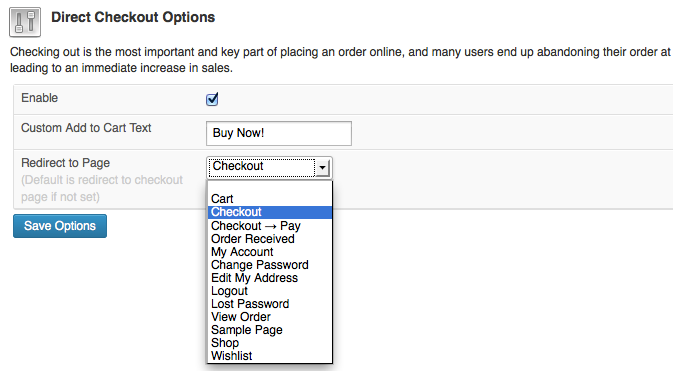
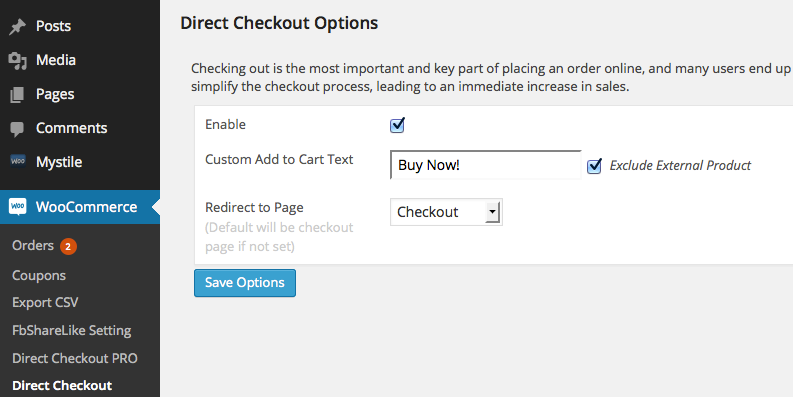
Added "Exclude External Product" checkbox for Custom Add to Cart button text option
git-svn-id: https://plugins.svn.wordpress.org/woocommerce-direct-checkout/trunk@890734 b8457f37-d9ea-0310-8a92-e5e31aec5664

diff --git a/wc-direct-checkout.php b/wc-direct-checkout.php
@@ -3,7 +3,7 @@
 Plugin Name: WooCommerce Direct Checkout
 Plugin URI: http://terrytsang.com/shop/shop/woocommerce-direct-checkout/
 Description: Allow you to implement direct checkout (skip cart page) for WooCommerce
-Version: 1.0.5
+Version: 1.0.6
 Author: Terry Tsang
 Author URI: http://shop.terrytsang.com
 */
@@ -59,6 +59,7 @@ if(in_array('woocommerce/woocommerce.php', apply_filters('active_plugins', get_o
 				$this->options_direct_checkout = array(
 					'direct_checkout_enabled' => '',
 					'direct_checkout_cart_button_text' => '',
+					'direct_checkout_exclude_external' => '',
 					'direct_checkout_cart_redirect_url' => ''
 				);
 	
@@ -106,10 +107,30 @@ if(in_array('woocommerce/woocommerce.php', apply_filters('active_plugins', get_o
 			 * Set custom add to cart text
 			 */
 			function custom_cart_button_text() {
-				$direct_checkout_cart_button_text = get_option( 'direct_checkout_cart_button_text' ) ? get_option( 'direct_checkout_cart_button_text' )  : "Add to cart";
+				global $post;
 				
-				if($direct_checkout_cart_button_text && $direct_checkout_cart_button_text != "")
-					return __($direct_checkout_cart_button_text, $this->textdomain);
+				
+				
+				$direct_checkout_cart_button_text = get_option( 'direct_checkout_cart_button_text' ) ? get_option( 'direct_checkout_cart_button_text' )  : "Add to cart";
+				$direct_checkout_exclude_external = get_option( 'direct_checkout_exclude_external' );
+				
+				if($direct_checkout_exclude_external){
+					
+					if( function_exists('get_product') ){
+						$product = get_product( $post->ID );
+							
+						if( !$product->is_type( 'external' ) && $direct_checkout_cart_button_text && $direct_checkout_cart_button_text != ""){
+							return __($direct_checkout_cart_button_text, $this->textdomain);
+						} else {
+							$button_text = get_post_meta( $post->ID, '_button_text', true ) ? get_post_meta( $post->ID, '_button_text', true ) : 'Buy product';
+							return __($button_text, $this->textdomain);
+						}
+					}
+					
+				} else {
+					if($direct_checkout_cart_button_text && $direct_checkout_cart_button_text != "")
+						return __($direct_checkout_cart_button_text, $this->textdomain);
+				}
 			
 			}
 			
@@ -136,6 +157,7 @@ if(in_array('woocommerce/woocommerce.php', apply_filters('active_plugins', get_o
 	
 					$this->saved_options_direct_checkout['direct_checkout_enabled'] = ! isset( $_POST['direct_checkout_enabled'] ) ? '1' : $_POST['direct_checkout_enabled'];
 					$this->saved_options_direct_checkout['direct_checkout_cart_button_text'] = ! isset( $_POST['direct_checkout_cart_button_text'] ) ? 'Add to cart' : $_POST['direct_checkout_cart_button_text'];
+					$this->saved_options_direct_checkout['direct_checkout_exclude_external'] = ! isset( $_POST['direct_checkout_exclude_external'] ) ? '1' : $_POST['direct_checkout_exclude_external'];
 					$this->saved_options_direct_checkout['direct_checkout_cart_redirect_url'] = ! isset( $_POST['direct_checkout_cart_redirect_url'] ) ? '' : $_POST['direct_checkout_cart_redirect_url'];
 						
 					foreach($this->options_direct_checkout as $field => $value)
@@ -152,12 +174,16 @@ if(in_array('woocommerce/woocommerce.php', apply_filters('active_plugins', get_o
 			
 				$direct_checkout_enabled			= get_option( 'direct_checkout_enabled' );
 				$direct_checkout_cart_button_text	= get_option( 'direct_checkout_cart_button_text' ) ? get_option( 'direct_checkout_cart_button_text' ) : 'Add to Cart';
+				$direct_checkout_exclude_external	= get_option( 'direct_checkout_exclude_external' );
 				$direct_checkout_cart_redirect_url	= get_option( 'direct_checkout_cart_redirect_url' );
 				
 				$checked_enabled = '';
 			
 				if($direct_checkout_enabled)
 					$checked_enabled = 'checked="checked"';
+				
+				if($direct_checkout_exclude_external)
+					$checked_enabled_exclude = 'checked="checked"';
 			
 				$actionurl = $_SERVER['REQUEST_URI'];
 				$nonce = wp_create_nonce( $this->textdomain );
@@ -193,6 +219,8 @@ if(in_array('woocommerce/woocommerce.php', apply_filters('active_plugins', get_o
 													<td width="25%"><?php _e( 'Custom Add to Cart Text', $this->textdomain ); ?></td>
 													<td>
 														<input name="direct_checkout_cart_button_text" id="direct_checkout_cart_button_text" value="<?php echo $direct_checkout_cart_button_text; ?>" />
+														<input class="checkbox" name="direct_checkout_exclude_external" id="direct_checkout_exclude_external" value="0" type="hidden">
+														<input class="checkbox" name="direct_checkout_exclude_external" id="direct_checkout_exclude_external" value="1" type="checkbox" <?php echo $checked_enabled_exclude; ?> type="checkbox">&nbsp;<i>Exclude External Product</i>
 													</td>
 												</tr>
 												<tr>
@@ -252,7 +280,7 @@ if(in_array('woocommerce/woocommerce.php', apply_filters('active_plugins', get_o
 						<?php
 							$get_pro_image = WooCommerce_Direct_Checkout::$plugin_url . '/images/direct-checkout-pro-version.png';
 						?>
-						<div align="center"><a href="http://terrytsang.com/shop/shop/woocommerce-direct-checkout-pro/" target="_blank" title="WooCommerce Direct Checkout PRO"><img src="<?php echo $get_pro_image; ?>" border="0" /></a></div>
+						<div align="center"><a href="http://wordpress.org/plugins/woocommerce-direct-checkout/" target="_blank" title="WooCommerce Direct Checkout"><img src="<?php echo $get_pro_image; ?>" border="0" /></a></div>
 						
 						<h3>Get More Plugins</h3>
 					
